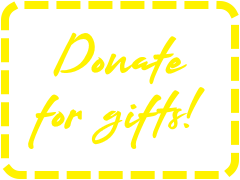
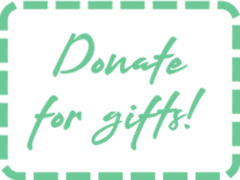
Push

diff --git a/docs/index.html b/docs/index.html
@@ -3,7 +3,7 @@
 
 <head>
   <meta charset="UTF-8">
-  <link rel="icon" href="https://www.cjlofundingdrive.com/img/2024/CJLO_FD2024_logo.jpg">
+  <link rel="icon" href="img/2025/croppedlogo.png">
   <title>CJLO Funding Drive 2024</title>
   <meta name="description" content="Come party with us and win prizes, in support of CJLO's 2024 Funding Drive!">
   <meta name="keywords"
@@ -19,7 +19,7 @@
 
 <body>
   <div class="flex">
-    <img class="logo" src="img/2024/CJLO_FD2024_logo.jpg">
+    <img class="logo" style="width: 15vw;" src="img/2025/croppedlogo.png">
     <h1 id="topbar">
       <a href="#donatejump">donate!</a>
       <a href="#rafflejump">raffle!</a>
@@ -55,53 +55,63 @@
 
   <div id="donate-bundles">
     <div class="bundle">
-      <p><strong>Donate $20: </strong>CJLO Mixtape </p>
+      <p><strong>Donate $20</strong> </p>
+      <p>CJLO Mixtape</p>
       <img src="img/2025/Merch Bundle Graphics/1.png">
     </div>
 
     <div class="bundle">
-      <p><strong>Donate $20: </strong>CJLO Zine</p>
+      <p><strong>Donate $20: </strong></p>
+      <p>CJLO Zine</p>
       <img src="img/2025/Merch Bundle Graphics/2.png">
     </div>
 
     <div class="bundle">
-      <p><strong>Donate $35: </strong>Your Choice of T-Shirt!</p>
-      <img src="img/2025/Merch Bundle Graphics/3.png">
+      <p><strong>Donate $35</strong></p>
+      <p>Your Choice of T-Shirt!</p>
+      <img src="img/2025/ezgif-252adc7444c808.gif">
     </div>
 
     <div class="bundle">
-      <p><strong>Donate $50: </strong>CJLO Boombox T-Shirt + Punk Zine </p>
+      <p><strong>Donate $50 </strong></p>
+      <p>CJLO Boombox T-Shirt + Punk Zine </p>
       <img src="img/2025/Merch Bundle Graphics/7.png">
     </div>
 
     <div class="bundle">
-      <p><strong>Donate $50: </strong> Campus is for Lovers T-Shirt + Campus is for Haters T-Shirt </p>
+      <p><strong>Donate $50 </strong>  </p>
+      <p>Campus is for Lovers T-Shirt + Campus is for Haters T-Shirt</p>
       <img src="img/2025/Merch Bundle Graphics/8.png">
     </div>
 
     <div class="bundle">
-      <p><strong>Donate $50: </strong>CJLO Funding Drive T-Shirt + CJLO Funding Drive Tote</p>
+      <p><strong>Donate $50 </strong></p>
+      <p>CJLO Funding Drive T-Shirt + CJLO Funding Drive Tote</p>
       <img src="img/2025/Merch Bundle Graphics/9.png">
     </div>
 
     <div class="bundle">
-      <p><strong>Donate $60: </strong> CJLO Funding Drive T-Shirt + CJLO Funding Drive Tote + Mixtape</p>
+      <p><strong>Donate $60</strong> </p>
+      <p>CJLO Funding Drive T-Shirt + CJLO Funding Drive Tote + Mixtape</p>
       <img src="img/2025/Merch Bundle Graphics/10.png">
     </div>
 
     <div class="bundle">
-      <p><strong>Donate $75: </strong> CJLO Cassette T-Shirt + Campus is for Lovers Tote + CJLO Coffee Mug</p>
+      <p><strong>Donate $75</strong> </p>
+      <p>CJLO Cassette T-Shirt + Campus is for Lovers Tote + CJLO Coffee Mug</p>
       <img src="img/2025/Merch Bundle Graphics/11.png">
     </div>
 
     <div class="bundle">
-      <p><strong>Donate $100: </strong> CJLO Funding Drive T-Shirt + CJLO Funding Drive Tote + Mixtape + Punk Zine +
+      <p><strong>Donate $100</strong> </p>
+      <p style="font-size: 0.75em;">CJLO Funding Drive T-Shirt + CJLO Funding Drive Tote + Mixtape + Punk Zine +
         CJLO Coffee Mug</p>
-      <img src="img/2025/Merch Bundle Graphics/12.png">
+      <img src="img/2025/Merch Bundle Graphics/12.png" style="width:75%;">
     </div>
 
     <div class="bundle">
-      <p style="font-size: 0.75em;"><strong>Donate $200:</strong>CJLO Funding Drive T-Shirt + CJLO Funding Drive Tote
+      <p><strong>Donate $200:</strong></p>
+      <p>CJLO Funding Drive T-Shirt + CJLO Funding Drive Tote
         + Mixtape + Punk Zine + CJLO Coffee Mug + Cassette Logo T-Shirt + CJLO Metal Hoodie</p>
       <img src="img/2025/Merch Bundle Graphics/13.png">
     </div>
@@ -197,74 +207,72 @@
 <div id="event-parent">
 
   <div class="event-container">
-    <h1>CJLO Presents</h1>
     <h4>Funding Drive Launch</h4>
-    <img class="event-poster" src="img/2025/Poster for Website - Funding Drive Launch Poster - Beatrice.png">
-    <div class="caption">Event poster by: MISSING DESC.</div>
-    <p>
-      MISSING DESC.
-    </p>
+    <img src="img/2025/Poster for Website - Funding Drive Launch Poster - Beatrice.png">
+    <div class="caption" style="font-size: .5em;">Event poster by Beatrice, host of The Waxing Gibbous</div>
+    <p>Friday, October 24 2025</p>
+    <p>CJLO studios (3pm-6pm)</p>
+    <p>FREE</p>
     <br />
   </div>  
   <div class="event-container">
-    <h1>CJLO Presents</h4>
-      <h4> Punk Concert + Zine Launch</h4>
-    <img class="event-poster" src="img/2025/Poster For Website - Punk Show Poster - Sonam.jpg">
-    <div class="caption">Event poster by: MISSING DESC.</div>
-    <p>
-      MISSING DESC.
-    </p>
+    <h4>Punk Concert + Zine Launch</h4>
+    <img c src="img/2025/Poster For Website - Punk Show Poster - Sonam.png">
+    <div class="caption" style="font-size: .5em;">Event poster by Sonam, host of Brave Little Emo Girl</div>
+        <p>Friday, October 24 2025</p>
+    <p style="font-size: smaller;">La Sotterenea (Doors: 7pm | Show: 8pm)  </p>
+    <p>$20 (includes zine)</p>
     <br />
   </div>
   <div class="event-container">
-        <h1>CJLO Presents</h1>
 
   <h4>CanCon Trivia Night at Star Bar</h4>
-  <img class="event-poster" src="img/2025/Poster for Webstite - Trivia.jpeg">
+  <img src="img/2025/Poster for Webstite - Trivia.jpeg">
   <div class="caption">Event Poster by: MISSING DESC.</div>
-  <p>
-    MISSING DESC.
-  </p>
+  <div style="margin-top: auto;">
+        <p>Wednesday, October 29 2025</p>
+    <p>Star Bar (8:30pm) </p>
+    <p>FREE (donations appreciated)</p>
+  </div>
   <br />
     </div>
   <div class="event-container">
-        <h1>CJLO Presents</h1>
   <h4>CJLO's Divas Night Live</h4>
-  <img class="event-poster" src="img/2025/Poster For Website -Divas Night Sam Original.png">
-  <div class="caption">Event Poster by: MISSING DESC.</div>
-  <p>
-    MISSING DESC
-  </p>
+  <img src="img/2025/Poster For Website -Divas Night Sam Original.png">
+    <div class="caption" style="font-size: .5em;">Event poster by Sonam, host of Brave Little Emo Girl</div>
+    <p>Saturday, November 1 2025</p>
+    <p style="font-size: smaller;">La Sala Rosa (Doors: 7pm | Show: 8pm)</p>
+    <p>$20</p>
   <br />
     </div>
   <div class="event-container">
-        <h1>CJLO Presents</h1>
   <h4> CJLO's Cassette Launch Mixer</h4>
-  <img class="event-poster" src="img/2025/Poster for Website -Mixtape Launchpng.png">
-  <div class="caption">Event Poster by: MISSING DESC.</div>
-  <p>
-    MISSING DESC
-  </p>
+  <img src="img/2025/Poster for Website -Mixtape Launchpng.png">
+    <div class="caption" style="font-size: .5em;">Event poster by Sonam, host of Brave Little Emo Girl</div>
+     <p>Saturday, November 1 2025</p>
+    <p>Bar Wills (7pm-10pm) </p>
+    <p>Free - Mixtape available to purchase</p>
+
   <br />
     </div>
 
   <div class="event-container">
-    <h1>CJLO presents</h1>
   <h4>All Nighter Broadcast</h4>
-  <img class="event-poster" src="img/2025/Poster for Website - CJLOAllNighter.png">
-      <div class="caption">Event poster by: MISSING DESC.</div>
-  <p>
-    MISSING DESC
-  </div>
-  </p>
+  <img src="img/2025/Poster for Website - CJLOAllNighter.png">
+    <div class="caption" style="font-size: .5em;">Event poster by Sonam, host of Brave Little Emo Girl</div>
+    <p>Saturday, November 1 2025</p>
+    <p> CJLO Studios (9pm-9am) </p>
+        <p> Broadcast live </p>
+
 </div>
+<div>
   <h4><a href="#topbar">back to the top!</a></h4>
 
   <div id="legals">&copy; 2015
-    <script>new Date().getFullYear() > 2010 && document.write("-" + new Date().getFullYear());</script> <a class="legal"
+    <script>new Date().getFullYear() > 2010 && document.write("- " + new Date().getFullYear());</script> <a class="legal"
       href="http://www.cjlo.com/" target="blank">cjlo.com</a>, all rights reserved.
   </div>
-
+</div>
 </body>
 
 </html>

diff --git a/docs/style.css b/docs/style.css
@@ -55,9 +55,9 @@ a.donate-link {
 }
 
 .bundle {
-	padding-bottom: 1rem;
+	/* border-style: dashed; */
+	padding-bottom: 0em;
 	width: 15em;
-	height: 18em;
 	display: flex;
 	margin: 2%;
 	flex-direction: column;
@@ -65,12 +65,12 @@ a.donate-link {
 	justify-content: center;
 	align-content: center;
 	border-radius: 8%;
-	border-style: dashed;
 }
 
 .bundle p {
-	padding: 1em;
 	font-size: 90%;
+	padding-left: 1em;
+	padding-right: 1em;
 	margin: 0;
 
 }
@@ -98,31 +98,35 @@ a.donate-link {
 .event-container{
 	display: flex;
 	flex-flow: column;
-	width: 45vh;
+	width: 50vh;
 	height:90vh;
-
-	background-color: rgb(228, 228, 198);
 	align-items: center;
-	margin:2em;
-	padding-top: 2%;
-	border-radius: 5%;
+	padding-top: 0%;
+	margin: 1%;
+	/* background: linear-gradient(transparent 50%,rgb(239, 237, 229) 50%); */
+	background-color: rgb(239, 237, 229);
+	padding-bottom: 2%;
 }
 
 .event-container h1{
-	margin: 0em;
+	padding: 0em;
 	position: relative;
 }
-
+.event-container p{
+	margin-top: 0.5em;
+	margin-bottom: 0;
+}
 .event-container h4{
 	font-family: inherit;
 	font-size: large;
 }
 
 .event-container img{
-	z-index: 2;
-	top:0px;
+	margin: auto;
+	align-self: flex-end;
+	justify-self: end;
 	position: relative;
-	width:80%;
+	width:100%;
 }
 
 
@@ -134,7 +138,7 @@ a.donate-link {
 	display: flex;
 	flex-wrap: wrap;
 	justify-content: center;
-
+	width: 95vw;
 }
 
 
@@ -187,7 +191,7 @@ img{
 	width:10em;
 	height:8em;
 	font-size: 1em;
-	padding: 0.5em;
+	padding: 0.25em;
 	margin: 0.3em;
 	border-style: solid;
 	border-color: grey;
